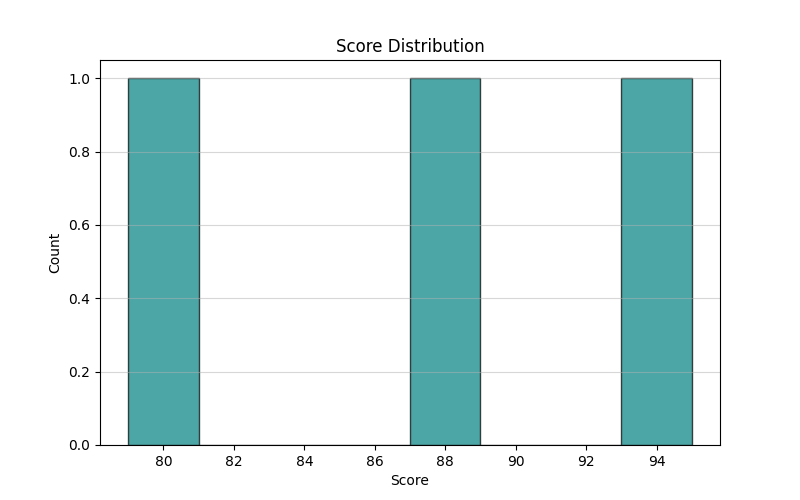
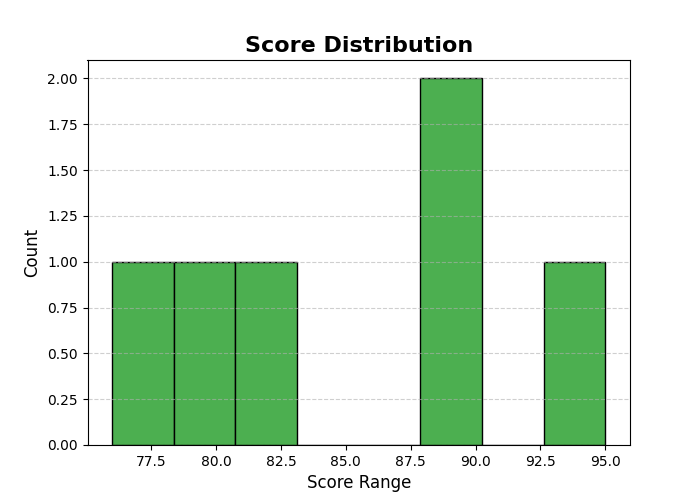
allday

diff --git a/Month 1/Week 1/Day 10/Histogram.py b/Month 1/Week 1/Day 10/Histogram.py
@@ -1,42 +1,27 @@
-import matplotlib.pyplot as plt
-import pandas as pd
-import numpy as np
+import pandas as pd              # CORRECT: Pandas for read_csv and DataFrame operations
+import numpy as np               # CORRECT: NumPy for array/numerical operations
+import matplotlib.pyplot as plt  # CORRECT: matplotlib.pyplot for plotting functions
 
-# --- Data Setup ---
-# Load people.csv. 
-# NOTE: The 'score' column is not in the original people.csv, 
-# so we create a mock 'score' column (as done in the previous step) 
-# for the histogram to work without error.
-try:
-    df = pd.read_csv('people.csv')
-except FileNotFoundError:
-    print("Error: 'people.csv' not found. Please ensure it is in the current directory.")
-    exit()
+# Load the data using Pandas
+df = pd.read_csv('people.csv')
 
-# Add mock 'score' column for demonstration
-np.random.seed(42) # for reproducible random scores
-# Assuming 10 rows in people.csv based on earlier context
-if 'score' not in df.columns or df['score'].isnull().all():
-    df['score'] = np.random.randint(50, 101, size=len(df))
-
-# --- Plotting the Histogram ---
-plt.figure(figsize=(8, 5))
-
-# Use the correct function name: plt.savefig()
-# Convert 'score' to integer type for cleaner histogram bins
-plt.hist(df['score'].astype(int), bins=8, edgecolor='black', alpha=0.7, color='teal') 
-
-plt.title('Score Distribution')
-plt.xlabel('Score')
-plt.ylabel('Count')
-plt.grid(axis='y', alpha=0.5)
-
-# Fix the typo: 'savefigfig' -> 'savefig'
+# --- 1. Histogram of scores ---
+plt.figure(figsize=(7, 5))
+plt.hist(df['score'].astype(int), bins=8, edgecolor='black', color='#4CAF50')
+plt.title('Score Distribution', fontsize=16, fontweight='bold')
+plt.xlabel('Score Range', fontsize=12)
+plt.ylabel('Count', fontsize=12)
+plt.grid(axis='y', alpha=0.6, linestyle='--')
 plt.savefig('score_histogram.png')
-
 plt.show()
 
-print("\nHistogram generated successfully:")
-print("- Displayed on screen.")
-print("- Saved to 'score_histogram.png'.")
-
+# --- 2. Boxplot ---
+plt.figure(figsize=(5, 7))
+plt.boxplot(df['score'].astype(int), vert=True, patch_artist=True, 
+            boxprops=dict(facecolor='#2196F3', color='black'),
+            medianprops=dict(color='red'))
+plt.title('Score Boxplot', fontsize=16, fontweight='bold')
+plt.ylabel('Score', fontsize=12)
+plt.xticks([1], ['All Scores'])
+plt.savefig('score_boxplot.png')
+plt.show()

diff --git a/Month 1/Week 1/Day 10/Groupby.py b/Month 1/Week 1/Day 10/Groupby.py
@@ -1,0 +1,34 @@
+import pandas as pd
+import numpy as np
+import matplotlib.pyplot as plt
+
+# Load or create sample data
+try:
+    df = pd.read_csv('people.csv')
+except FileNotFoundError:
+    df = pd.DataFrame({'name':['Alice','Bob','Carol','Dave','Eve','Frank'],
+                       'age':[23,30,27,45,34,28],
+                       'score':[88,95,79,82,90,76],
+                       'group':['A','B','A','B','A','B']})
+    df.to_csv('people.csv', index=False)
+
+print('DataFrame loaded:')
+print(df)
+
+
+# Group by 'group' and compute statistics
+grouped = df.groupby('group').agg({'score': ['mean', 'median', 'count']})
+print(grouped)
+
+# Flaten MultiIndex columns
+grouped.columns = ['_'.join(col).strip() for col in grouped.columns.values]
+print('\nFlattened grouped:\n', grouped)
+
+# Bar plot of mean score per group
+plt.figure()
+grouped['score_mean'].plot(kind='bar')
+plt.title('Mean Score bt Group')
+plt.xlabel('Group')
+plt.ylabel('Mean Score')
+plt.savefig('mean_score_by_group.png')
+plt.show()

diff --git a/Month 1/Week 1/Day 10/pivot.py b/Month 1/Week 1/Day 10/pivot.py
@@ -1,0 +1,25 @@
+import pandas as pd
+import numpy as np
+
+# define the module
+df = pd.read_csv('people.csv')
+
+# Pivot table: average score by group
+pivot = pd.pivot_table(df, values='score', index='group', aggfunc=np.mean)
+print('Pivot table:\n', pivot)
+
+# Example merge: create a summary dataframe and merge back
+summary = df.groupby('group').agg(total_members=('name', 'count'), avg_score=('score', 'mean')).reset_index()
+print('\summary:\n', summary)
+
+merged = pd.merge(df, summary, on='group')
+print('\nMerged sample:\n', merged.head())
+
+
+summary.to_csv('group_summary.csv', index=False) # <--- Error happens here
+print('saved group_summary.csv')
+
+# List ncreated image files
+import os 
+images = [f for f in os.listdir('.') if f.endswith('.png')]
+print('saved images:', images)

diff --git a/Month 1/Week 1/Day 10/data_summary_saver.py b/Month 1/Week 1/Day 10/data_summary_saver.py
@@ -1,0 +1,6 @@
+import numpy as pd
+import pandas as py
+df = pd.read_csv('group_summary.csv')
+grouped = df.groupby('group').agg({'score': ['mean', 'median', 'count']})
+grouped.columns = ['_'.join(col).strip() for col in grouped.columns.values]
+summary = grouped.rename(columns={'score_mean': 'mean', 'score_median': 'median', 'score_count': 'count'})
